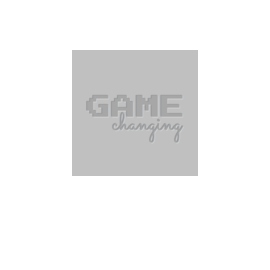
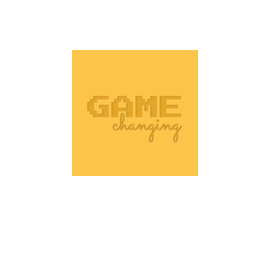
added image improvement and fixed card fetch at start

Changed region(s): [[0.2667, 0.1778, 0.7407, 0.6519]]

diff --git a/public/js/app.js b/public/js/app.js
@@ -1,1 +1,1 @@
-!function(e,t){function n(e,t){t.classList.contains(e)||t.classList.add(e)}function a(e,t){t.classList.contains(e)&&t.classList.remove(e)}function i(e){function n(){if(!p)if(g>0)g-=1,l.innerHTML=g;else if(0===g&&(E.classList.add("show"),!v)){var e=d.play();e!==t&&e.catch(function(e){}).then(function(){})}}function a(){var t=new XMLHttpRequest;t.onreadystatechange=function(){if(4===this.readyState&&200===this.status){var e=t.responseText?JSON.parse(t.responseText):null;e&&i(e.categorie.name,e.title,e.description,e.image)}},t.open("GET","/new/card/"+e,!0),t.send()}function i(e,t,n,a){y.className="var-"+e,y.getElementsByTagName("h2")[0].innerHTML=t,y.getElementsByTagName("figcaption")[0].innerHTML=n,null!==a&&(y.getElementsByTagName("img")[0].src="/img/"+a,y.getElementsByTagName("img")[0].alt=t)}function s(e,t){return Math.floor(Math.random()*(t-e)+1)+e}function o(e){e.pause(),e.currentTime=0}function r(){clearInterval(u),u=0,u=setInterval(n,1e3)}function c(e){g=e,l.innerHTML=g,r()}var d,u,l=document.getElementById("countDown"),m=parseInt(l.dataset.min),f=parseInt(l.dataset.max),g=parseInt(l.innerHTML),p=!1,v=!1,h=!1,L=document.getElementById("start"),E=document.getElementsByClassName("card")[0],y=document.getElementsByTagName("dialog")[0],T=document.getElementById("read"),B=document.getElementById("mute"),w=B.children[0];(d=document.createElement("audio")).setAttribute("src","/audio/notification - 10.mp3"),d.id="notification",d.preload="auto",d.addEventListener("ended",function(e){e.preventDefault(),o(d)}),document.body.appendChild(d),L.addEventListener("click",function(e){e.preventDefault(),h?(L.innerHTML=p?"pipipauze":"speel verder",p=!p):(r(),L.innerHTML="pipipauze"),h=!0}),T.addEventListener("click",function(){c(s(m,f)),E.classList.remove("show"),o(d)}),B.addEventListener("click",function(){v=!v,w.src=v?"/img/audio-uit.svg":"/img/audio-aan.svg",w.alt=v?"geluid uit":"geluid aan"}),E.addEventListener("transitionend",function(e){e.target.classList.contains("card")&&!e.target.classList.contains("show")&&a()})}var s=document.querySelectorAll("ul li a"),o=document.getElementById("nextPage"),r=document.getElementById("oldPage"),c=document.getElementById("overlay");c&&c.addEventListener("click",function(e){e.preventDefault(),n("hide",this)});for(var d=0,u=s.length;d<u;++d)!function(t){s[t].addEventListener("click",function(c){c.preventDefault();var d=new XMLHttpRequest;d.onreadystatechange=function(){4===this.readyState&&200===this.status&&(o.innerHTML=d.responseText,o.removeAttribute("class"),n("show",r),o.addEventListener("transitionend",function(e){"transform"===e.propertyName&&(a("show",r),n("hide",r),n("show",o))}),i(s[t].dataset.href.substr(e.location.href.length+1)))},d.open("GET",s[t].dataset.href,!0),d.send()})}(d)}(window);
+!function(e,t){function n(e,t){t.classList.contains(e)||t.classList.add(e)}function a(e,t){t.classList.contains(e)&&t.classList.remove(e)}function i(e){function i(){if(!v)if(p>0)p-=1,g.innerHTML=p;else if(0===p&&(B.classList.add("show"),!L)){var e=l.play();e!==t&&e.catch(function(e){}).then(function(){})}}function s(){var t=new XMLHttpRequest;t.onreadystatechange=function(){if(4===this.readyState&&200===this.status){var e=t.responseText?JSON.parse(t.responseText):null;e&&o(e.categorie.name,e.title,e.description,e.image)}},t.open("GET","/new/card/"+e,!0),t.send()}function o(e,t,i,s){w.className="var-"+e,w.getElementsByTagName("h2")[0].innerHTML=t,w.getElementsByTagName("figcaption")[0].innerHTML=i,null!==s?(n("icon",w.getElementsByTagName("figure")[0]),w.getElementsByTagName("img")[0].src="/img/icons/"+s,w.getElementsByTagName("img")[0].alt=t):a("icon",w.getElementsByTagName("figure")[0])}function c(e,t){return Math.floor(Math.random()*(t-e)+1)+e}function r(e){e.pause(),e.currentTime=0}function d(){clearInterval(m),m=0,m=setInterval(i,1e3)}function u(e){p=e,g.innerHTML=p,d()}var l,m,g=document.getElementById("countDown"),f=parseInt(g.dataset.min),h=parseInt(g.dataset.max),p=parseInt(g.innerHTML),v=!1,L=!1,E=!1,y=document.getElementById("start"),T=document.getElementsByClassName("text-box")[0],B=document.getElementsByClassName("card")[0],w=document.getElementsByTagName("dialog")[0],I=document.getElementById("read"),M=document.getElementById("mute"),N=M.children[0];(l=document.createElement("audio")).setAttribute("src","/audio/notification - 10.mp3"),l.id="notification",l.preload="auto",l.addEventListener("ended",function(e){e.preventDefault(),r(l)}),document.body.appendChild(l),y.addEventListener("click",function(e){e.preventDefault(),E?(y.innerHTML=v?"pipipauze":"speel verder",v=!v):(d(),s(),y.innerHTML="pipipauze"),E=!0}),I.addEventListener("click",function(){u(c(f,h)),B.classList.remove("show"),r(l),a("hide",T)}),M.addEventListener("click",function(){L=!L,N.src=L?"/img/audio-uit.svg":"/img/audio-aan.svg",N.alt=L?"geluid uit":"geluid aan"}),B.addEventListener("transitionend",function(e){e.target.classList.contains("card")&&e.target.classList.contains("show")&&n("hide",T),e.target.classList.contains("card")&&!e.target.classList.contains("show")&&s()})}var s=document.querySelectorAll("ul li a"),o=document.getElementById("nextPage"),c=document.getElementById("oldPage"),r=document.getElementById("overlay");r&&(document.cookie.search("intro")>0?n("hide",r):r.addEventListener("click",function(e){e.preventDefault(),document.cookie.search("intro")<=0&&(document.cookie="intro=seen"),n("hide",this)}));for(var d=0,u=s.length;d<u;++d)!function(t){s[t].addEventListener("click",function(r){r.preventDefault();var d=new XMLHttpRequest;d.onreadystatechange=function(){4===this.readyState&&200===this.status&&(o.innerHTML=d.responseText,o.removeAttribute("class"),n("show",c),o.addEventListener("transitionend",function(e){"transform"===e.propertyName&&(a("show",c),n("hide",c),n("show",o))}),i(s[t].dataset.href.substr(e.location.href.length+1)))},d.open("GET",s[t].dataset.href,!0),d.send()})}(d)}(window);

diff --git a/resources/assets/js/app.js b/resources/assets/js/app.js
@@ -9,10 +9,17 @@
 
 	// click event intro overlay
 	if(overlay){
-		overlay.addEventListener("click",function(e){
-			e.preventDefault();
-			addClass("hide",this);
-		});
+		if(document.cookie.search("intro") > 0){
+			addClass("hide",overlay);
+		}else{
+			overlay.addEventListener("click",function(e){
+				e.preventDefault();
+				if(document.cookie.search("intro") <= 0){
+					document.cookie = "intro=seen";
+				}
+				addClass("hide",this);
+			});
+		}
 	}
 
 	// EventListener for every game
@@ -64,14 +71,13 @@
 			pausedTimer = false,
 			mute = false,
 			notFirstClick = false,
-			// wonButton = document.getElementById("won"),
 			startButton = document.getElementById("start"),
+			infoBox = document.getElementsByClassName("text-box")[0],
 			card = document.getElementsByClassName("card")[0],
 			cardContent = document.getElementsByTagName("dialog")[0],
 			readButton = document.getElementById("read"),
 			audioButton = document.getElementById("mute"),
 			audioImage = audioButton.children[0],
-			// winField = document.getElementById("win"),
 			notification, timer;
 
 		// notification sound setup
@@ -93,21 +99,17 @@
 				pausedTimer = (!pausedTimer);
 			}else{
 				startTimer();
+				fetchNewCard();
 				startButton.innerHTML = "pipipauze";
 			}
 			notFirstClick=true;
 		});
-		//win button setup
-		// wonButton.addEventListener("click",function(e){
-		// 	e.preventDefault();
-		// 	pausedTimer = true;
-		// 	addClass("win",winField);
-		// });
 		//read button setup
 		readButton.addEventListener("click",function(){
 			addnextTime(getRandomNumbreBetween(min, max));
 			card.classList.remove("show");
 			resetAudio(notification);
+			removeClass("hide",infoBox);
 		});
 		//mute button setup
 		audioButton.addEventListener("click",function(){
@@ -118,8 +120,12 @@
 
 		// only after card is hidden then fetch new card data
 		card.addEventListener("transitionend",function(e){
+			if(e.target.classList.contains("card") && e.target.classList.contains("show")){
+				addClass("hide",infoBox);
+			}
 			if(e.target.classList.contains("card") && !e.target.classList.contains("show")){
 				fetchNewCard();
+
 			}
 		});
 
@@ -156,8 +162,11 @@
 			cardContent.getElementsByTagName("h2")[0].innerHTML = title;
 			cardContent.getElementsByTagName("figcaption")[0].innerHTML = description;
 			if(image !== null){
-				cardContent.getElementsByTagName("img")[0].src = "/img/"+image;
+				addClass("icon",cardContent.getElementsByTagName("figure")[0]);
+				cardContent.getElementsByTagName("img")[0].src = "/img/icons/"+image;
 				cardContent.getElementsByTagName("img")[0].alt = title;
+			}else{
+				removeClass("icon",cardContent.getElementsByTagName("figure")[0]);
 			}
 		}
 

diff --git a/public/css/app.css b/public/css/app.css
@@ -262,6 +262,8 @@ body {
     padding: 10px 40px 13px;
     cursor: pointer; }
     body main .button.var-sub {
+      display: block;
+      width: 105px;
       font-size: 1em;
       background: #1086c8;
       background: -webkit-gradient(linear, left top, left bottom, from(#1086c8), to(#1086c8));
@@ -270,6 +272,8 @@ body {
       padding: 10px 30px 13px; }
     body main .button.var-read {
       display: block; }
+  body main .icon h1 {
+    display: none; }
   body main .text-box {
     display: block;
     background-color: white;
@@ -341,14 +345,17 @@ body {
     body main .text-box p {
       font-size: 1.1rem;
       padding-top: 10px; }
+    body main .text-box.hide {
+      display: none; }
   body main .card {
     opacity: 0;
     -webkit-transition: all .5s ease;
     transition: all .5s ease;
     pointer-events: none;
     position: absolute;
+    height: 100vh;
     top: 0;
-    bottom: 0;
+    bottom: -50px;
     right: 0;
     left: 0;
     background: #e7a602; }
@@ -382,7 +389,11 @@ body {
         margin-bottom: 10px; }
       body main .card dialog figure img {
         display: block;
-        width: 100%; }
+        max-width: 80%;
+        max-width: calc(100% - 40px);
+        max-height: 250px;
+        margin: 0 auto;
+        padding: 20px; }
       body main .card dialog figure figcaption {
         padding: 10px 20px;
         font-size: 1.3em; }

diff --git a/resources/assets/scss/app.scss b/resources/assets/scss/app.scss
@@ -345,6 +345,8 @@ body{
 			cursor: pointer;
 
 			&.var-sub{
+				display: block;
+				width: 105px;
 				font-size: 1em;
 				background: lighten($accent-background,10%);
 				background: linear-gradient(lighten($accent-background,10%),lighten($accent-background,10%));
@@ -357,6 +359,11 @@ body{
 			}
 		}
 
+		.icon{
+			h1{
+				display: none;
+			}
+		}
 		.text-box{
 			display: block;
 			background-color: white;
@@ -444,6 +451,10 @@ body{
 				font-size: 1.1rem;
 				padding-top: 10px;
 			}
+
+			&.hide{
+				display: none;
+			}
 		}
 
 		.card{
@@ -451,8 +462,9 @@ body{
 			transition: all .5s ease;
 			pointer-events: none;
 			position: absolute;
+			height: 100vh;
 			top:0;
-			bottom: 0;
+			bottom: -50px;
 			right: 0;
 			left: 0;
 			background: darken($background-color,$darken);
@@ -509,7 +521,11 @@ body{
 				figure{
 					img{
 						display: block;
-						width: 100%;
+						max-width: 80%;
+						max-width: calc(100% - 40px);
+						max-height: 250px;
+						margin: 0 auto;
+						padding: 20px;
 					}
 					figcaption{
 						padding: 10px 20px;

diff --git a/resources/views/layout.blade.php b/resources/views/layout.blade.php
@@ -10,8 +10,8 @@
 		<link rel="icon" type="image/png" sizes="32x32" href="/favicon-32x32.png">
 		<link rel="icon" type="image/png" sizes="16x16" href="/favicon-16x16.png">
 		<link rel="manifest" href="/manifest.json">
-		<link rel="mask-icon" href="/safari-pinned-tab.svg" color="#1057a1">
-		<meta name="theme-color" content="#c0c0c0">
+		<link rel="mask-icon" href="/safari-pinned-tab.svg" color="#fcc449">
+		<meta name="theme-color" content="#fcc449">
 	</head>
 	<body>
 	@yield('content')

diff --git a/resources/views/win.blade.php b/resources/views/win.blade.php
@@ -1,7 +1,7 @@
 @extends('layout')
 @section('content')
 	<div class="win">
-		<canvas id="confetti" width="1" height="1"></canvas>
+		<canvas id="confetti" width="100%" height="100%"></canvas>
 		<a href="{{ route('overzicht') }}" class="backButton">
 			<svg xmlns="http://www.w3.org/2000/svg" viewBox="0 0 24 24"><path d="M16.67 0l2.83 2.829-9.339 9.175 9.339 9.167-2.83 2.829-12.17-11.996z"/></svg>
 			overzicht</a>

diff --git a/resources/views/play.blade.php b/resources/views/play.blade.php
@@ -44,6 +44,7 @@
 					<span>GAME</span>
 					<span>changing</span>
 				</h1>
+				<img src="" alt="">
 			</figure>
 		</dialog>
 		<button id="read" class="button var-read">volgende speler</button>
